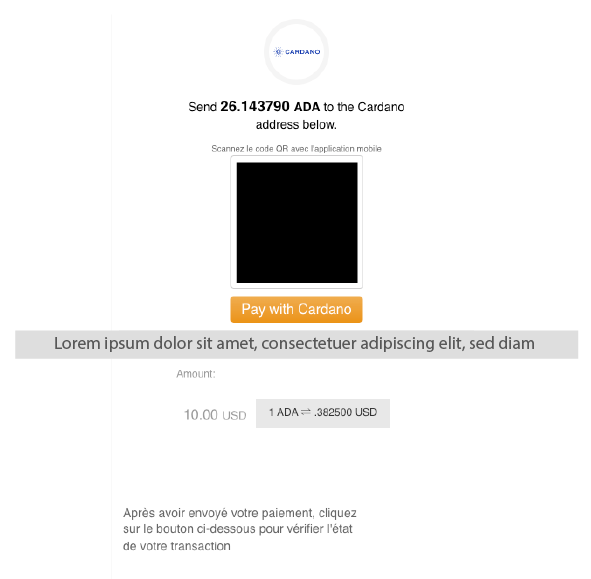
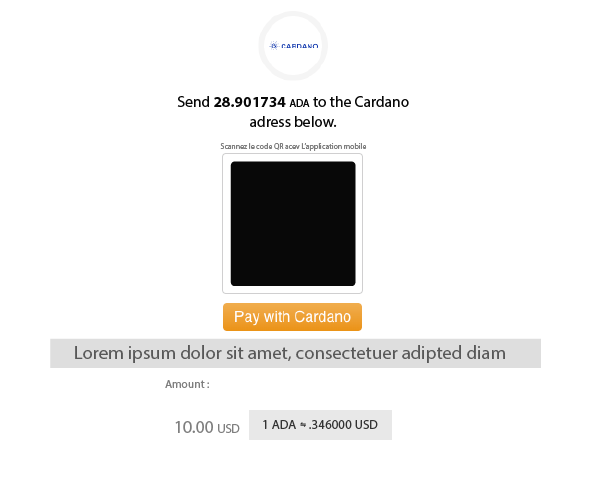
Cardano

Changed region(s): [[0.0, 0.1553, 1.0, 0.8075], [0.2132, 0.8696, 0.6396, 0.9627], [0.4569, 0.0621, 0.5482, 0.1242]]

diff --git a/affiliates/webinar-invites/khmer.html b/affiliates/webinar-invites/khmer.html
@@ -421,9 +421,9 @@
                                         <td class="details-time-td" style="padding: 40px 10px 20px 20px; font-weight: 700; color: #fff;">ម៉ោង:</td>
                                     </tr>
                                     <tr>
-                                        <td class="details-speaker-td" style="padding: 0 10px 40px 20px; color: #fff;">លោក ព្រំ ភារុណ</td>
-                                        <td class="details-date-td" style="padding: 0 10px 40px 20px; color: #fff;">26 មករា ឆ្នាំ 2023</td>
-                                        <td class="details-time-td" style="padding: 0 10px 40px 20px; color: #fff;">13:30 (ម៉ោងភ្នំពេញ)</td>
+                                        <td class="details-speaker-td" style="padding: 0 10px 40px 20px; color: #fff;">Prom Phearun</td>
+                                        <td class="details-date-td" style="padding: 0 10px 40px 20px; color: #fff;">30th March 2023 (ថ្ងៃព្រហស្បតិ៍)</td>
+                                        <td class="details-time-td" style="padding: 0 10px 40px 20px; color: #fff;">8:00PM ICT (1:00PM GMT)</td>
                                     </tr>
                                 </table>
                             </td>
@@ -437,9 +437,9 @@
                                         <td class="details-time-td" style="padding: 40px 10px 20px 20px; font-weight: 700; color: #333;">ម៉ោង:</td>
                                     </tr>
                                     <tr style="display: none; mso-hide:all;" class="dark-visible-block">
-                                        <td class="details-speaker-td" style="padding: 0 10px 40px 20px; color: #333;">លោក ព្រំ ភារុណ</td>
-                                        <td class="details-date-td" style="padding: 0 10px 40px 20px; color: #333;">26 មករា ឆ្នាំ 2023</td>
-                                        <td class="details-time-td" style="padding: 0 10px 40px 20px; color: #333;">13:30 (ម៉ោងភ្នំពេញ)</td>
+                                        <td class="details-speaker-td" style="padding: 0 10px 40px 20px; color: #333;">Prom Phearun</td>
+                                        <td class="details-date-td" style="padding: 0 10px 40px 20px; color: #333;">30th March 2023 (ថ្ងៃព្រហស្បតិ៍)</td>
+                                        <td class="details-time-td" style="padding: 0 10px 40px 20px; color: #333;">8:00PM ICT (1:00PM GMT)</td>
                                     </tr>
                                 </table>
                             </td>
@@ -468,13 +468,13 @@
                         <tr>
                             <td align="center" class="dark-black">
                                 <!--[if (gte mso 9)|(IE)]>
-                                <v:roundrect xmlns:v="urn:schemas-microsoft-com:vml" xmlns:w="urn:schemas-microsoft-com:office:word" href="https://deriv.zoom.us/webinar/register/WN_VDRrJt6PQKaCowZ3xij_tQ" style="height:40px;v-text-anchor:middle;width:230px;" arcsize="10%" strokecolor="#ff444f" fillcolor="#ff444f">
+                                <v:roundrect xmlns:v="urn:schemas-microsoft-com:vml" xmlns:w="urn:schemas-microsoft-com:office:word" href="https://deriv.zoom.us/webinar/register/WN_3uNh1FvvRM-55e0BQwbcgw" style="height:40px;v-text-anchor:middle;width:230px;" arcsize="10%" strokecolor="#ff444f" fillcolor="#ff444f">
                                 <w:anchorlock/>
                                 <center style="color:#ffffff;font-family:sans-serif;font-size:16px;font-weight:bold;">ចុះឈ្មោះអីឡូវនេះ</center>
                                 </v:roundrect>
                                 <![endif]-->
                                 <!--[if !gte mso 9]><!-- -->
-                                <a class="button" href="https://deriv.zoom.us/webinar/register/WN_VDRrJt6PQKaCowZ3xij_tQ" target="_blank">ចុះឈ្មោះអីឡូវនេះ</a>
+                                <a class="button" href="https://deriv.zoom.us/webinar/register/WN_3uNh1FvvRM-55e0BQwbcgw" target="_blank">ចុះឈ្មោះអីឡូវនេះ</a>
                                 <!--<![endif]-->
                             </td>
                         </tr>

diff --git a/payops/cardano-es.html b/payops/cardano-es.html
@@ -462,12 +462,7 @@
                         </tr>
                         <tr class="mobile-hide">
                             <td align="center" class="dark-black">
-                                <!--[if (gte mso 9)|(IE)]>
-                                <input type="image" src="https://static.deriv.com/email/images/deriv-2023/cardano4-es.png" width="590";>
-                                <![endif]-->
-                                <!--[if !gte mso 9]><!-- -->
-                                <input class="body-img-md" type="image" src="https://static.deriv.com/email/images/deriv-2023/cardano4-es.png"/>
-                                <!--<![endif]-->
+                                <input class="body-img-md" type="image" src="https://static-natalia.vercel.app/0-images/step4-es.png"/>
                             </td>
                         </tr>
                         <div>

diff --git a/payops/cardano-fr.html b/payops/cardano-fr.html
@@ -462,12 +462,7 @@
                         </tr>
                         <tr class="mobile-hide">
                             <td align="center" class="dark-black">
-                                <!--[if (gte mso 9)|(IE)]>
-                                <input type="image" src="https://static.deriv.com/email/images/deriv-2023/cardano4-fr.png" width="590";>
-                                <![endif]-->
-                                <!--[if !gte mso 9]><!-- -->
-                                <input class="body-img-md" type="image" src="https://static.deriv.com/email/images/deriv-2023/cardano4-fr.png"/>
-                                <!--<![endif]-->
+                                <input class="body-img-md" type="image" src="https://static-natalia.vercel.app/0-images/step4-fr.png"/>
                             </td>
                         </tr>
                         <div>

diff --git a/payops/cardano-pt.html b/payops/cardano-pt.html
@@ -463,12 +463,7 @@
                         </tr>
                         <tr class="mobile-hide">
                             <td align="center" class="dark-black">
-                                <!--[if (gte mso 9)|(IE)]>
-                                <input type="image" src="https://static.deriv.com/email/images/deriv-2023/cardano4-pt.png" width="590";>
-                                <![endif]-->
-                                <!--[if !gte mso 9]><!-- -->
-                                <input class="body-img-md" type="image" src="https://static.deriv.com/email/images/deriv-2023/cardano4-pt.png"/>
-                                <!--<![endif]-->
+                                <input class="body-img-md" type="image" src="https://static-natalia.vercel.app/0-images/step4-en.png"/>
                             </td>
                         </tr>
                         <div>

diff --git a/payops/cardano-th.html b/payops/cardano-th.html
@@ -463,12 +463,7 @@
                         </tr>
                         <tr class="mobile-hide">
                             <td align="center" class="dark-black">
-                                <!--[if (gte mso 9)|(IE)]>
-                                <input type="image" src="https://static.deriv.com/email/images/deriv-2023/cardano4-en.png" width="590";>
-                                <![endif]-->
-                                <!--[if !gte mso 9]><!-- -->
-                                <input class="body-img-md" type="image" src="https://static.deriv.com/email/images/deriv-2023/cardano4-en.png"/>
-                                <!--<![endif]-->
+                                <input class="body-img-md" type="image" src="https://static-natalia.vercel.app/0-images/step4-en.png"/>
                             </td>
                         </tr>
                         <div>

diff --git a/payops/cardano-vn.html b/payops/cardano-vn.html
@@ -462,12 +462,7 @@
                         </tr>
                         <tr class="mobile-hide">
                             <td align="center" class="dark-black">
-                                <!--[if (gte mso 9)|(IE)]>
-                                <input type="image" src="https://static.deriv.com/email/images/deriv-2023/cardano4-en.png" width="590";>
-                                <![endif]-->
-                                <!--[if !gte mso 9]><!-- -->
-                                <input class="body-img-md" type="image" src="https://static-natalia.vercel.app/0-images/step4-v3.png"/>
-                                <!--<![endif]-->
+                                <input class="body-img-md" type="image" src="https://static-natalia.vercel.app/0-images/step4-en.png"/>
                             </td>
                         </tr>
                         <div>

diff --git a/payops/cardano-en.html b/payops/cardano-en.html
@@ -478,7 +478,7 @@
                         </tr>
                         <tr class="mobile-hide">
                             <td align="center" class="dark-black">
-                                <input class="body-img-step" type="image" src="https://static-natalia.vercel.app/0-images/step4-v6.png"/>
+                                <input class="body-img-step" type="image" src="https://static-natalia.vercel.app/0-images/step4-en.png"/>
                             </td>
                         </tr>
                         <div>
